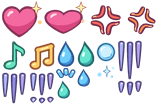
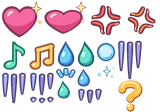
feat(ui): add a floating question mark for thinking

diff --git a/firmware/host/modules/ui/components/effects/emoticon.ts b/firmware/host/modules/ui/components/effects/emoticon.ts
@@ -1,7 +1,7 @@
 import { EffectSprite, effectFrames, type SpriteFrame } from 'effects/effect-sprites'
 import { Container, type Container as PiuContainer, type Port as PiuPort, Port } from 'piu/MC'
 
-export type EmoticonKey = 'heart' | 'angry' | 'sweat' | 'tear' | 'sleepy' | 'gloom'
+export type EmoticonKey = 'heart' | 'angry' | 'sweat' | 'tear' | 'sleepy' | 'gloom' | 'thinking'
 
 export type EmoticonOptions = {
   name?: string
@@ -97,6 +97,18 @@ const gloom: PoseAnimation = {
   sequence: Uint8Array.of(0, 0, 1, 2, 3, 4, 4, 4, 4, 4, 4, 4, 3, 2, 1, 0),
 }
 
+const thinking: PoseAnimation = {
+  kind: 'pose',
+  left: 16,
+  top: 8,
+  width: 56,
+  height: 56,
+  frames: [effectFrames.thinking],
+  sequence: new Uint8Array(18),
+  offsetX: Int8Array.of(-2, -2, -1, 0, 1, 2, 3, 3, 3, 3, 3, 2, 1, 0, -1, -2, -2, -2),
+  offsetY: Int8Array.of(3, 2, 0, -2, -4, -6, -7, -8, -8, -8, -7, -6, -4, -2, 0, 2, 3, 3),
+}
+
 const sleepy: BubbleAnimation = {
   kind: 'bubble',
   left: 16,
@@ -134,7 +146,7 @@ const tear: DropAnimation = {
   minScale: 0.3,
 }
 
-const animations = { heart, angry, sweat, tear, sleepy, gloom }
+const animations = { heart, angry, sweat, tear, sleepy, gloom, thinking }
 type Animation = PoseAnimation | DropAnimation | BubbleAnimation
 
 class EmoticonPortBehavior extends Behavior {

diff --git a/firmware/host/modules/ui/components/effects/effect-sprites.ts b/firmware/host/modules/ui/components/effects/effect-sprites.ts
@@ -8,7 +8,7 @@ export const effectFrames = {
   angry: [88, 0, 36, 40, 0xff705e],
   angryRebound: [124, 0, 36, 40, 0xff705e],
   gloomShort: [28, 96, 28, 8, 0xa795de],
-  gloomLow: [116, 80, 28, 16, 0xa795de],
+  gloomLow: [76, 88, 28, 16, 0xa795de],
   gloomMedium: [28, 72, 28, 24, 0xa795de],
   gloomHigh: [0, 72, 28, 32, 0xa795de],
   gloomTall: [116, 40, 28, 40, 0xa795de],
@@ -21,6 +21,7 @@ export const effectFrames = {
   goldNote: [28, 40, 28, 32, 0xffd174],
   sleepyBubble: [96, 40, 20, 24, 0x9bdeff],
   sleepyPop: [96, 64, 20, 16, 0x9bdeff],
+  thinking: [116, 80, 28, 32, 0xffd36d],
 } as const satisfies Record<string, SpriteFrame>
 
 let texture: Texture | undefined

diff --git a/firmware/host/modules/ui/components/effects/__tests__/effect-render/main.js b/firmware/host/modules/ui/components/effects/__tests__/effect-render/main.js
@@ -7,6 +7,7 @@ import { Application, Port } from 'piu/MC'
 const cases = [
   { emotion: Emotion.HOT, key: 'sweat', left: 58, top: 57, width: 64, height: 43 },
   { emotion: Emotion.SAD, key: 'tear', left: 60, top: 94, width: 200, height: 44 },
+  { emotion: Emotion.DOUBTFUL, key: 'thinking' },
 ]
 const framesPerCase = 29
 const face = new SimpleFace({ motions: [] })

diff --git a/firmware/mods/examples/effect_touch_demo/mod.js b/firmware/mods/examples/effect_touch_demo/mod.js
@@ -13,6 +13,7 @@ const stages = [
   { key: 'sleepy', emotion: Emotion.SLEEPY, mouth: 0.03 },
   { key: 'gloom', emotion: Emotion.DOUBTFUL, mouth: 0.06 },
   { key: 'music', emotion: Emotion.NEUTRAL, mouth: 0.38 },
+  { key: 'thinking', emotion: Emotion.DOUBTFUL, mouth: 0.12 },
 ]
 
 class AdvanceOnTouch extends Behavior {

diff --git a/firmware/scripts/jitome-face-screen.c b/firmware/scripts/jitome-face-screen.c
@@ -14,7 +14,7 @@ static void changed(txScreen *screen) {
   uint32_t hash = 2166136261u;
   for (int i = 0; i < screen->width * screen->height * 4; i++) hash = (hash ^ screen->buffer[i]) * 16777619u;
   printf("FRAME %08x\n", hash);
-  if (frames < 128) {
+  if (frames < 192) {
     char path[4096];
     snprintf(path, sizeof(path), "%s/frame-%03d.rgba", output, frames);
     FILE *file = fopen(path, "wb");
